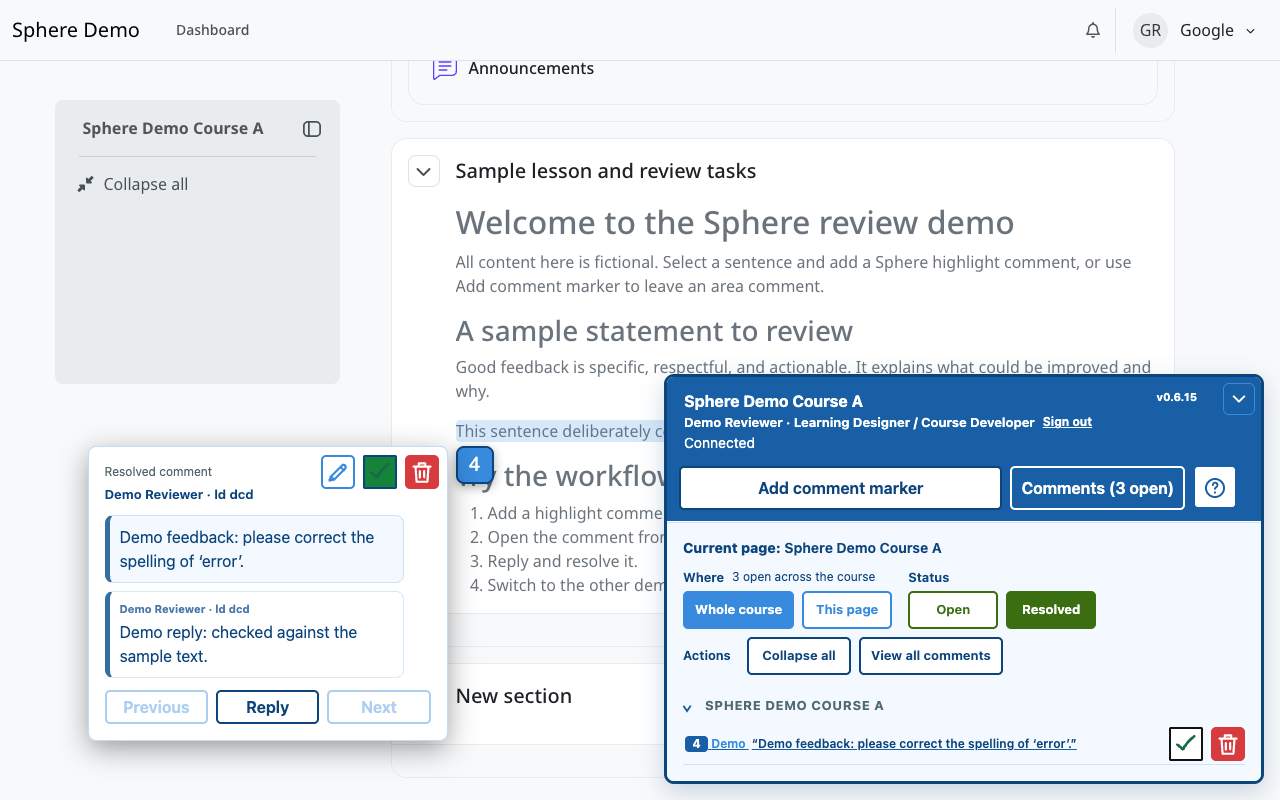
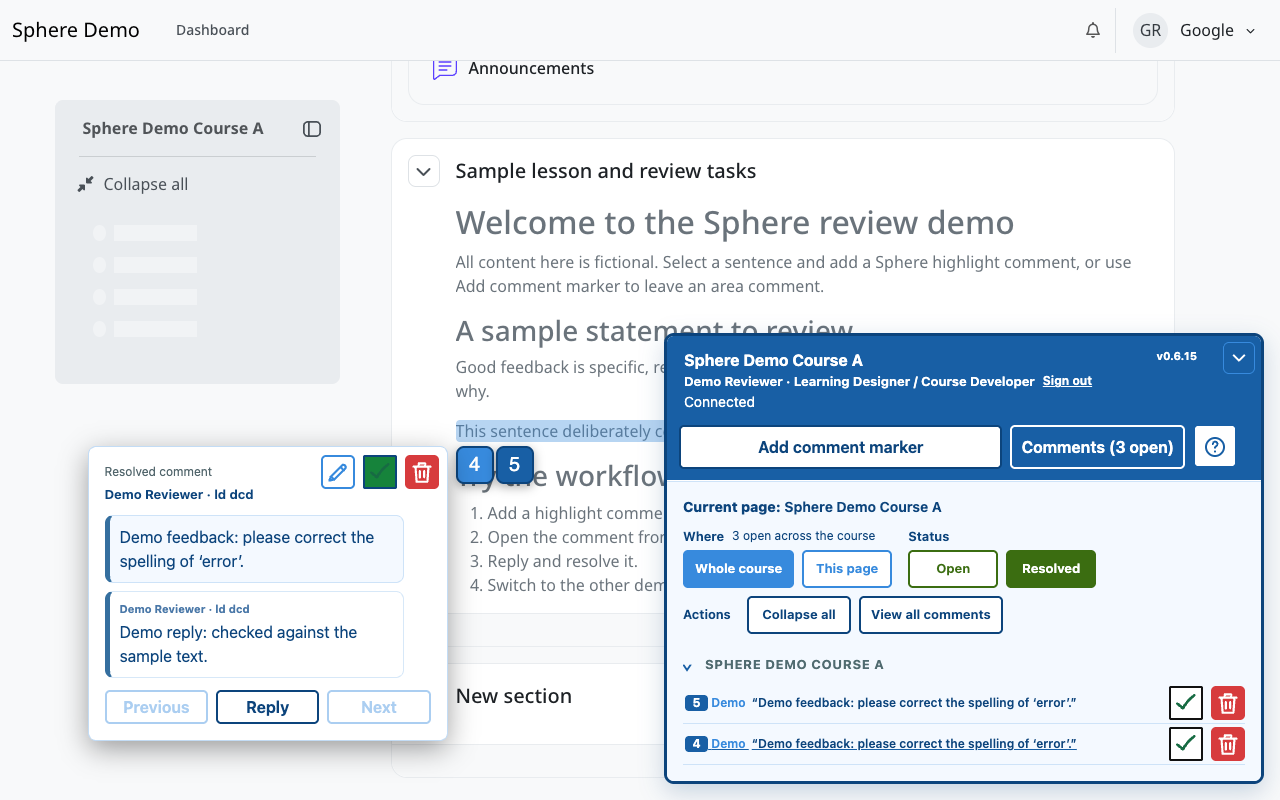
Record tested Store demo draft and remaining publisher steps

Changed region(s): [[0.3438, 0.4062, 1.0, 0.9062], [0.9062, 0.8438, 1.0, 0.9062]]

diff --git a/docs/superpowers/plans/2026-11-07-store-reviewer-demo.md b/docs/superpowers/plans/2026-11-07-store-reviewer-demo.md
@@ -10,7 +10,7 @@
 - [x] Add demo API tests for password gating, one-use course-bound codes, protected administration, and isolated seeded courses. Implement only the demo wrapper.
 - [x] Install empty Moodle/demo databases in new directories, create two sample courses and a restricted Moodle user, and start new loopback services. Enable only the new Funnel ports; do not change the existing port-443 mapping.
 - [x] Test the actual extension from a clean Chrome profile against the demo, including comments, navigation, resolution and course switching.
-- [ ] Package a new Store-only version, fill listing/privacy fields, set Unlisted, and add confidential reviewer instructions. Pause before policy certifications that need the user's confirmation; never submit for review.
+- [x] Package a new Store-only version, fill listing/privacy fields, set Unlisted, and add confidential reviewer instructions. Pause before policy certifications that need the user's confirmation; never submit for review.
 
 ## Verification and operational notes
 
@@ -19,3 +19,11 @@ The public clean-profile Chrome test exercises Moodle login, separate password-g
 Use a fresh Chrome profile for Store review. Cookies are hostname-scoped, not port-scoped: although the gateway discards non-demo cookies before forwarding and the demo Moodle uses its own cookie name, an existing browser profile could send same-host pilot cookies to the gateway. Extension access credentials are separately namespaced and routed by exact origin. The demo contains no copied user/course data and sends no email (`noemailever` plus disabled PHP sendmail).
 
 The public information-site repository was absent and its existing links returned 404. A static-only `radicalmove.github.io` repository was created to serve the existing Sphere information, privacy and support pages. No pilot extension release or live course deployment is part of this change.
+
+## Store handoff (7 November 2026)
+
+Draft item `mohajifpffgbmkelnpdibcebmjpjngak` now contains version 0.6.15 and is Unlisted. Description, Education category, English (UK), icon, authentic 1280×800 demo screenshot, homepage/support URLs, permission explanations, data-category selections and privacy URL were entered and saved. Remote code is No. Demo-only credentials and the two-course workflow are saved in confidential Test instructions, not this repository.
+
[1 lines of base64/hex data omitted]
+
+Google's remaining validation requirements are the three data-use certifications and publisher contact-email verification. A verification email was sent to `rcadavies@gmail.com`; Google says its link expires after one hour. The certifications remain unchecked pending the user's confirmation. No submission was made. Privacy and support pages return HTTP 200. Existing port 443 still forwards to 8017; demo 8443 forwards only to 8023. Both health checks pass.
